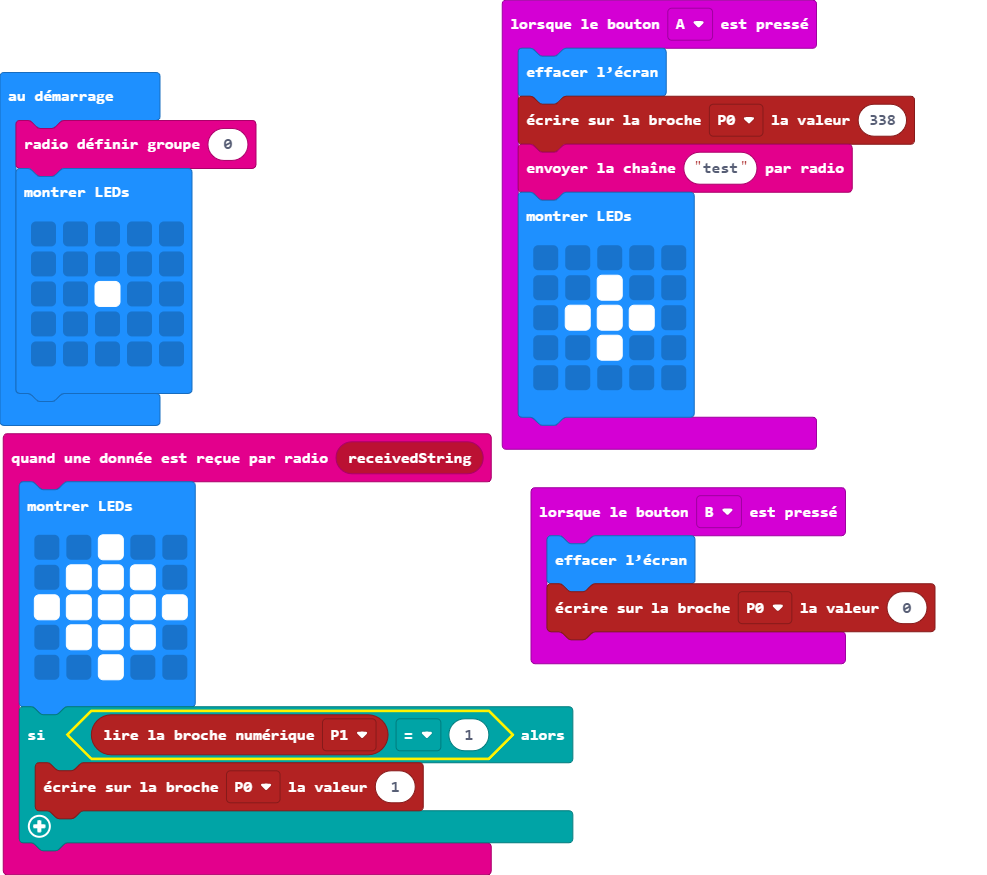
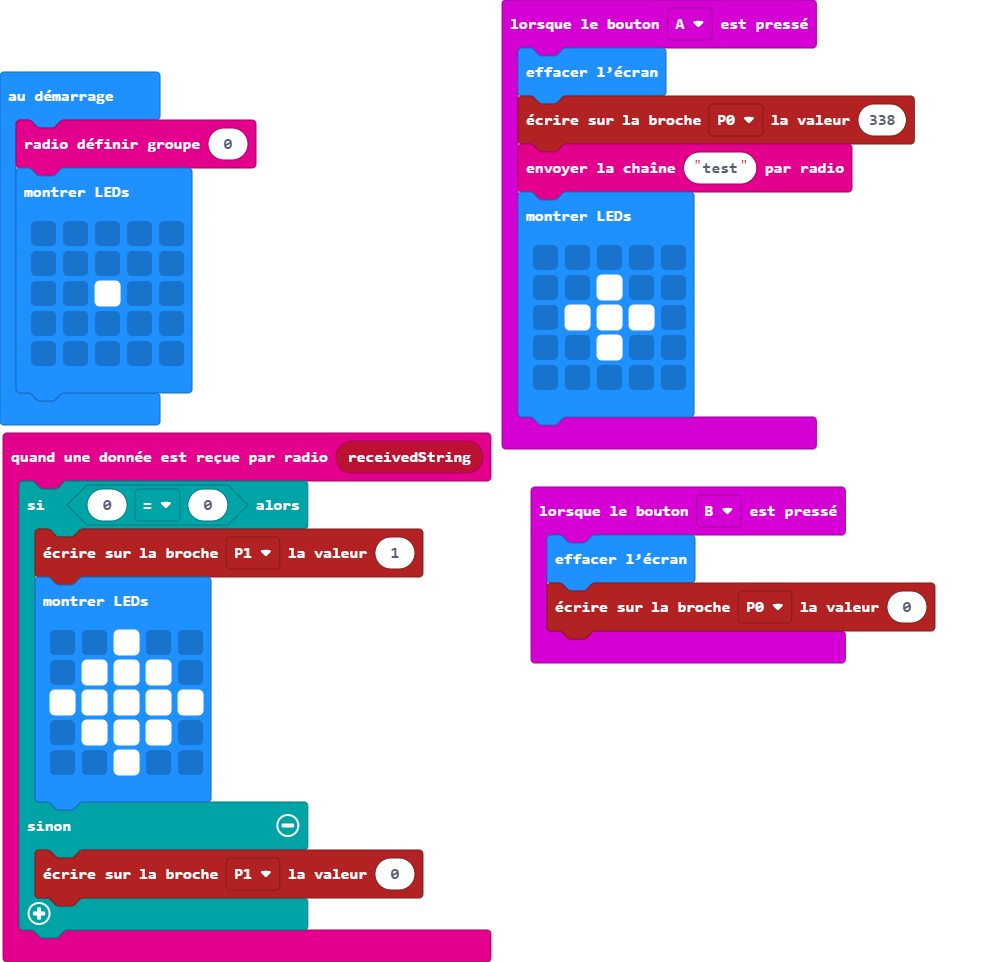
Mise à jour main.blocks, main.ts

diff --git a/main.ts b/main.ts
@@ -11,15 +11,17 @@ input.onButtonPressed(Button.A, function () {
         `)
 })
 radio.onReceivedString(function (receivedString) {
-    basic.showLeds(`
-        . . # . .
-        . # # # .
-        # # # # #
-        . # # # .
-        . . # . .
-        `)
-    if (pins.digitalReadPin(DigitalPin.P1) == 1) {
-        pins.digitalWritePin(DigitalPin.P0, 1)
+    if (0 == 0) {
+        pins.digitalWritePin(DigitalPin.P1, 1)
+        basic.showLeds(`
+            . . # . .
+            . # # # .
+            # # # # #
+            . # # # .
+            . . # . .
+            `)
+    } else {
+        pins.digitalWritePin(DigitalPin.P1, 0)
     }
 })
 input.onButtonPressed(Button.B, function () {
